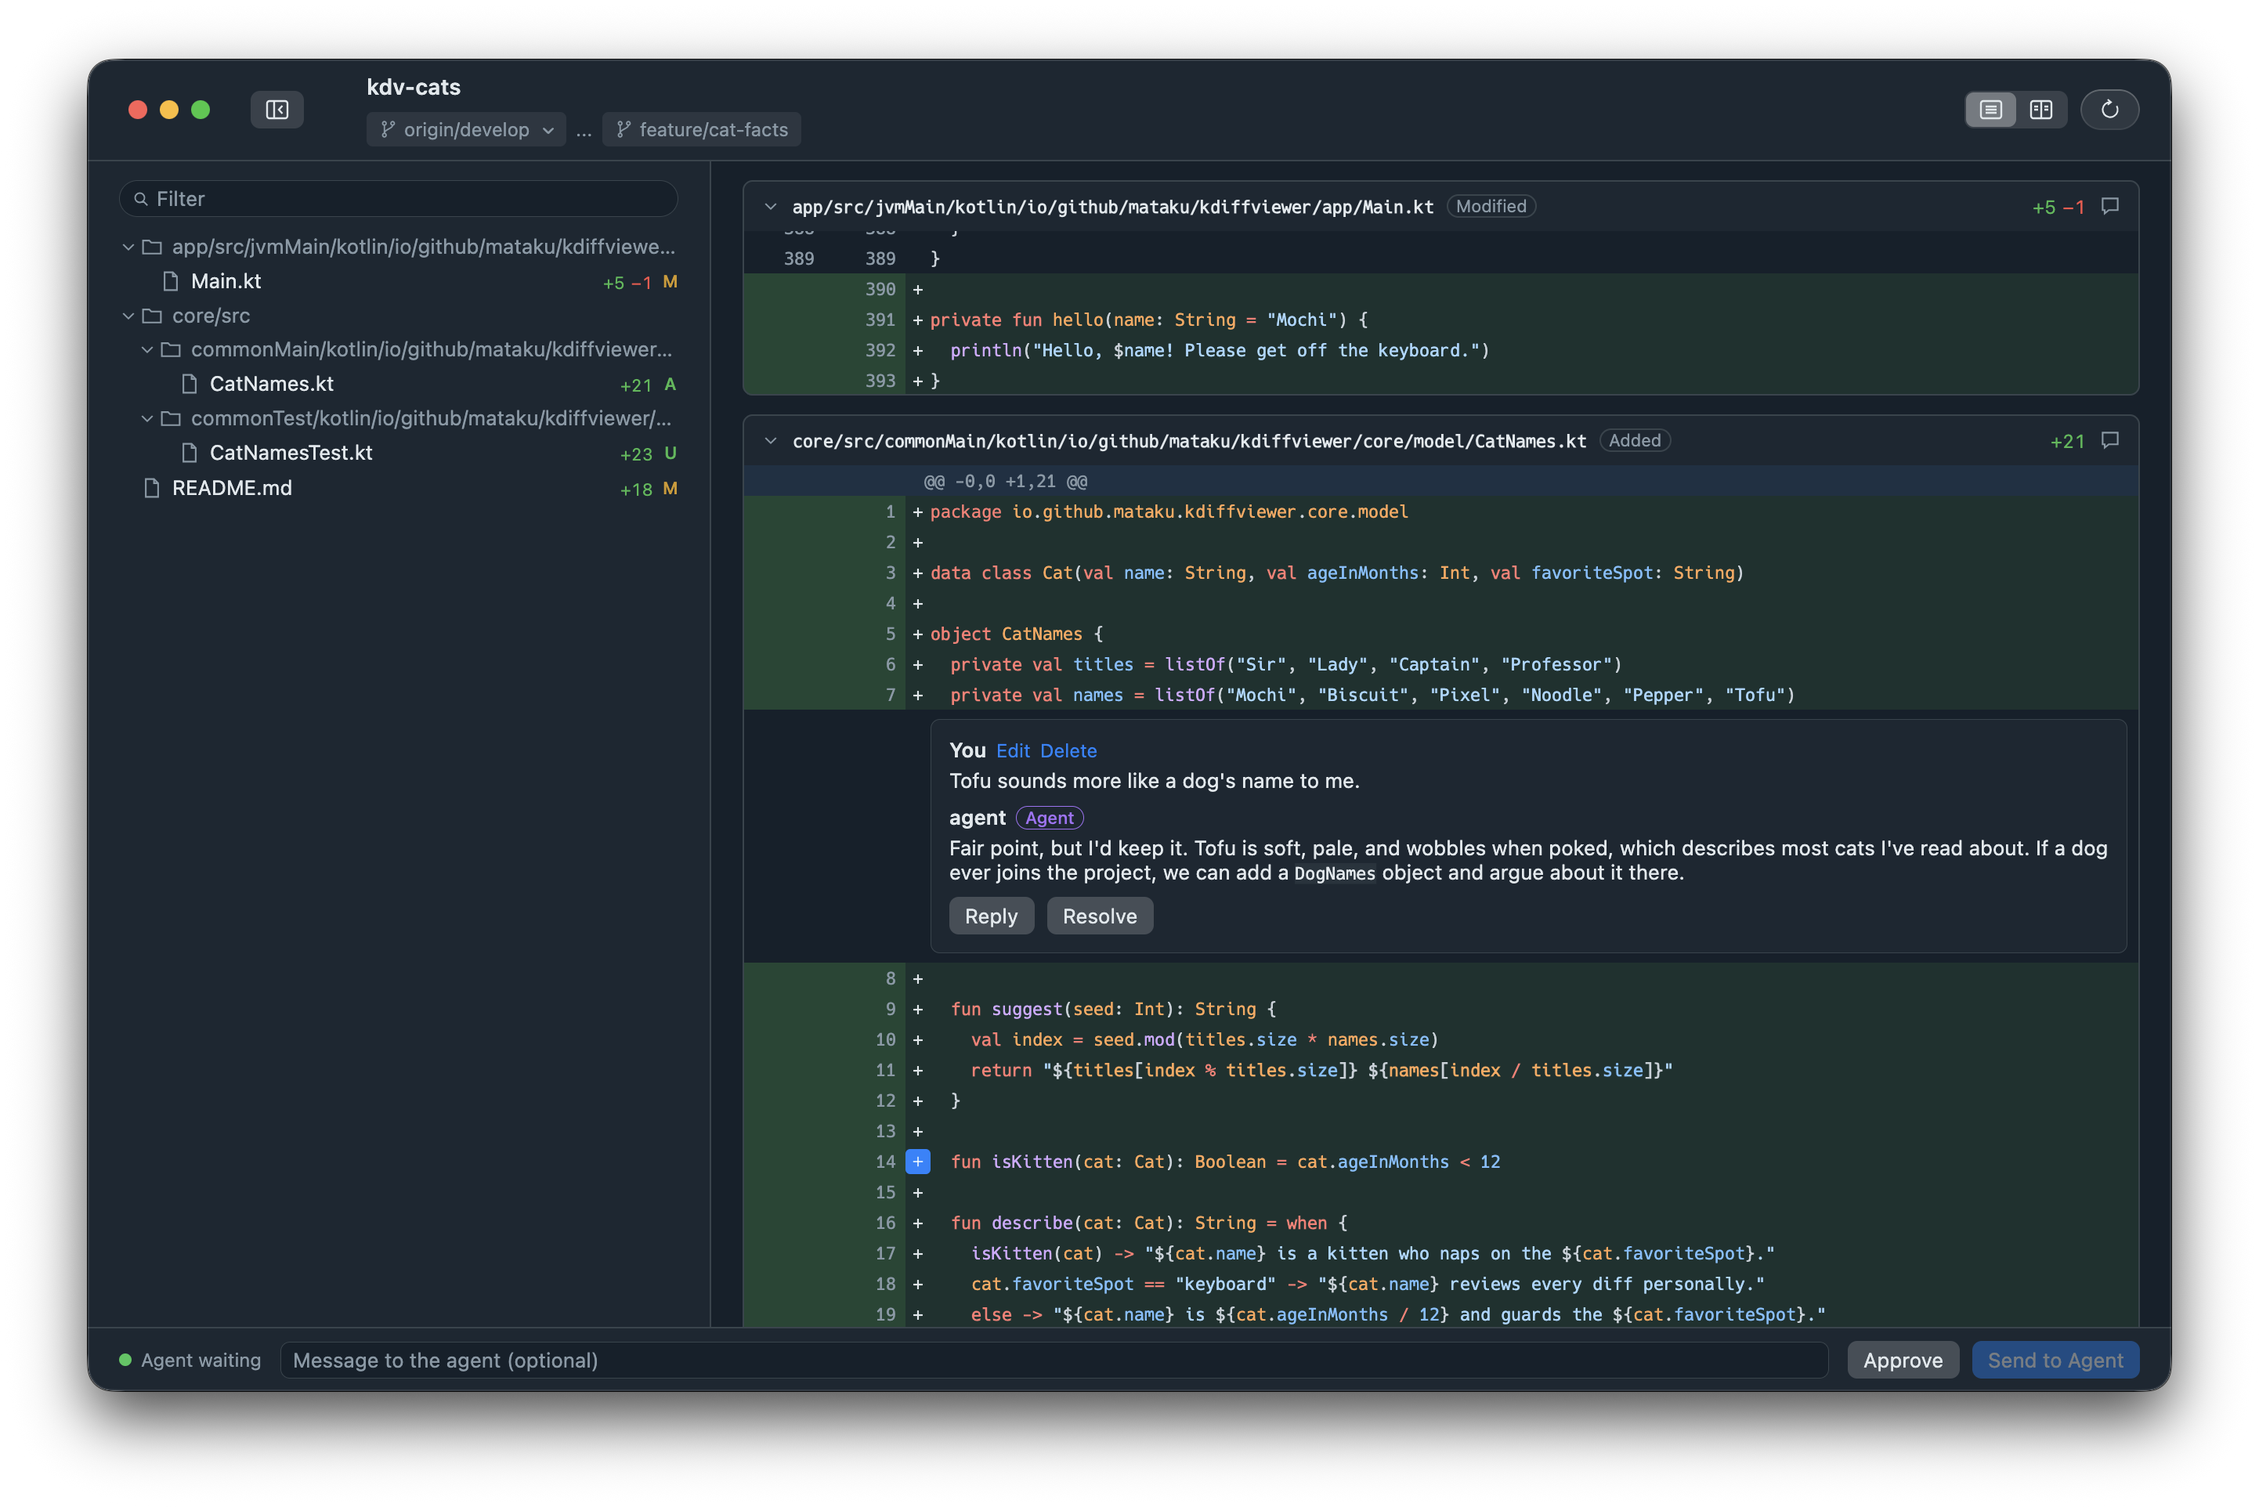
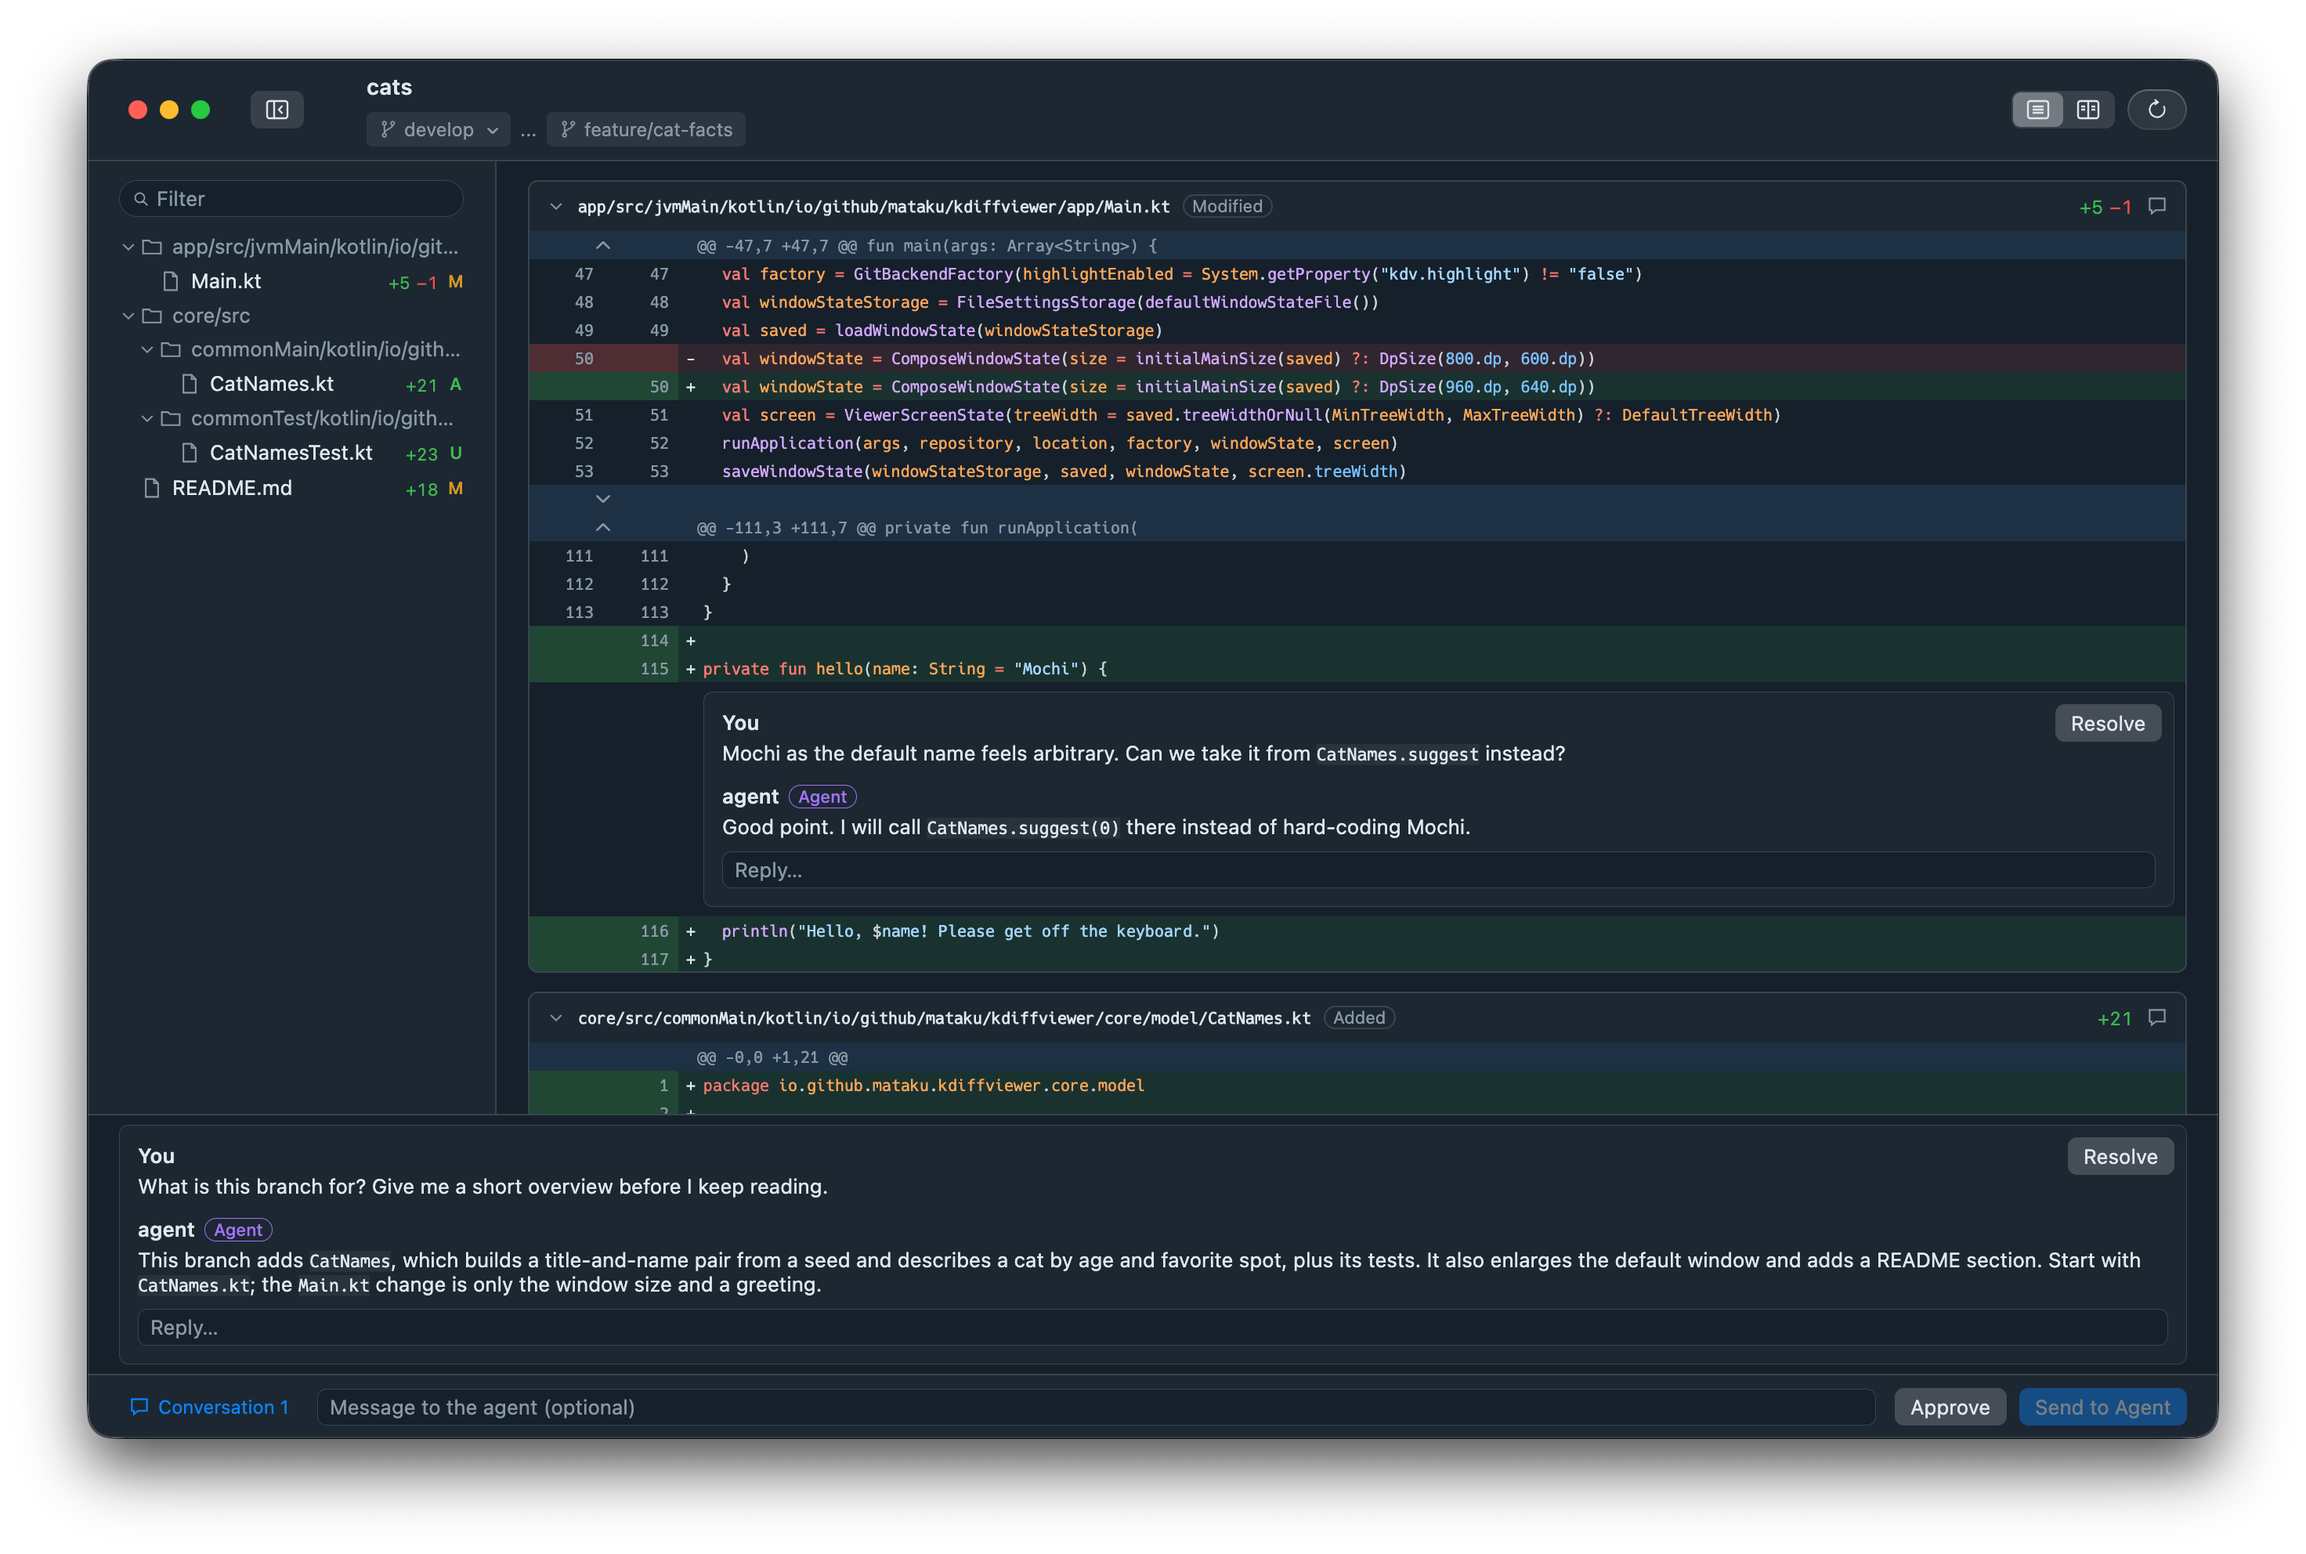
Update the README screenshots from the screenshot workflow
Both screenshots come from the screenshot workflow: the Dim appearance
with Cica at 2x, and the review screenshot now shows the thread card's
Resolve button, the reply field and the branch conversation panel.

diff --git a/README.md b/README.md
@@ -82,7 +82,7 @@ The base can also be changed from the toolbar: click the base tag to open a popu
 
 You review a coding agent's changes in the app the way you would review a pull request, and the agent reads and answers your comments from the terminal through the `kdv` command.
 
-![A review thread in kDiffViewer with a comment on a line and a reply from a coding agent, and the bar under the diff with Approve and Send to Agent](./docs/images/agent-review.png)
+![A review thread in kDiffViewer with a comment on a line and a reply from a coding agent, a branch conversation above the review bar, and the bar with Approve and Send to Agent](./docs/images/agent-review.png)
 
 To get started, install the `kdv-review` agent skill from this repository. It has the agent run `kdv agent-guide` and follow the instructions it prints, so `kdv` must be on your `PATH` (see [Install](#install)).
 
